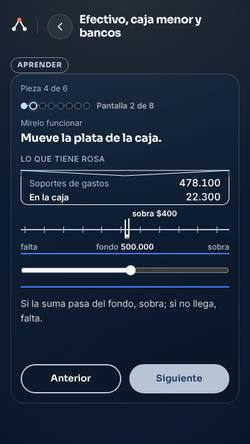
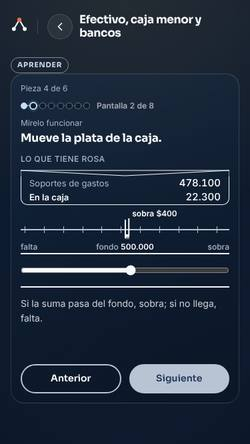
T4 slides: foco visible en el control de A3 p2, A8 de A5 p2 con el acierto y la ✓ de A5 p5 fuera del nombre
Claude-Session: https://claude.ai/code/session_01X55WAged4taZWzNBE5QsR6

Changed region(s): [[0.084, 0.6441, 0.924, 0.6734], [0.084, 0.5563, 0.924, 0.5856]]

diff --git a/src/components/t4/slides/A5.jsx b/src/components/t4/slides/A5.jsx
@@ -70,7 +70,9 @@ export const CSS_SLIDES_A5 = `
 .t4s5-p5 .t4s5-mt { min-height: 36px; }
 .t4s5-ops { display: grid; grid-template-columns: repeat(3, minmax(0, 1fr)); gap: 6px; }
 .t4s5-ops > .t4s-ctl { display: grid; align-content: center; justify-items: center; gap: 0; min-height: 60px; padding: 2px 4px; text-align: center; }
-.t4s5-ops > .t4s-ctl[data-ver] { padding: 1px 3px; }
+/* A la derecha, 12 px de más: la ✓ de la esquina nunca tapa el nombre (Shibukawa: «Cuentas por»). */
+.t4s5-ops > .t4s-ctl { padding-right: 12px; }
+.t4s5-ops > .t4s-ctl[data-ver] { padding: 1px 11px 1px 3px; }
 .t4s5-ops .n { display: grid; font: 600 12px/14px "Inter", sans-serif; hyphens: auto; overflow-wrap: anywhere; }
 .t4s5-ops .v { min-height: 14px; font: 600 12px/14px "Inter", sans-serif; font-variant-numeric: tabular-nums; white-space: nowrap; }
 .t4s5-tb { display: grid; grid-template-columns: repeat(2, minmax(0, 1fr)); gap: 6px; }

diff --git a/src/components/t4/slides/A3.jsx b/src/components/t4/slides/A3.jsx
@@ -66,6 +66,7 @@ export const CSS_SLIDES_A3 = `
 .t4s3-hueco > [data-oculta] { visibility: hidden; }
 .t4s3-contar { appearance: none; min-height: 44px; align-self: start; border-radius: 8px; border: 1px solid ${C.texto}; background: transparent; color: ${C.texto}; font: 600 14px/18px "Inter", sans-serif; cursor: pointer; }
 .t4s3-contar:focus-visible { outline: 2px solid ${C.texto}; outline-offset: 2px; }
+.t4s3-control:focus-visible { outline: 2px solid ${C.texto}; outline-offset: 2px; }
 .t4s3-control { display: block; width: 100%; height: 44px; margin: 0; accent-color: ${C.texto}; cursor: pointer; }
 .t4s3-rotfila { display: flex; justify-content: space-between; align-items: center; gap: 8px; height: 16px; }
 .t4s3-rotfila > p { margin: 0; font: 500 12px/16px "Inter", sans-serif; letter-spacing: .04em; color: ${C.texto2}; white-space: nowrap; overflow: hidden; }
